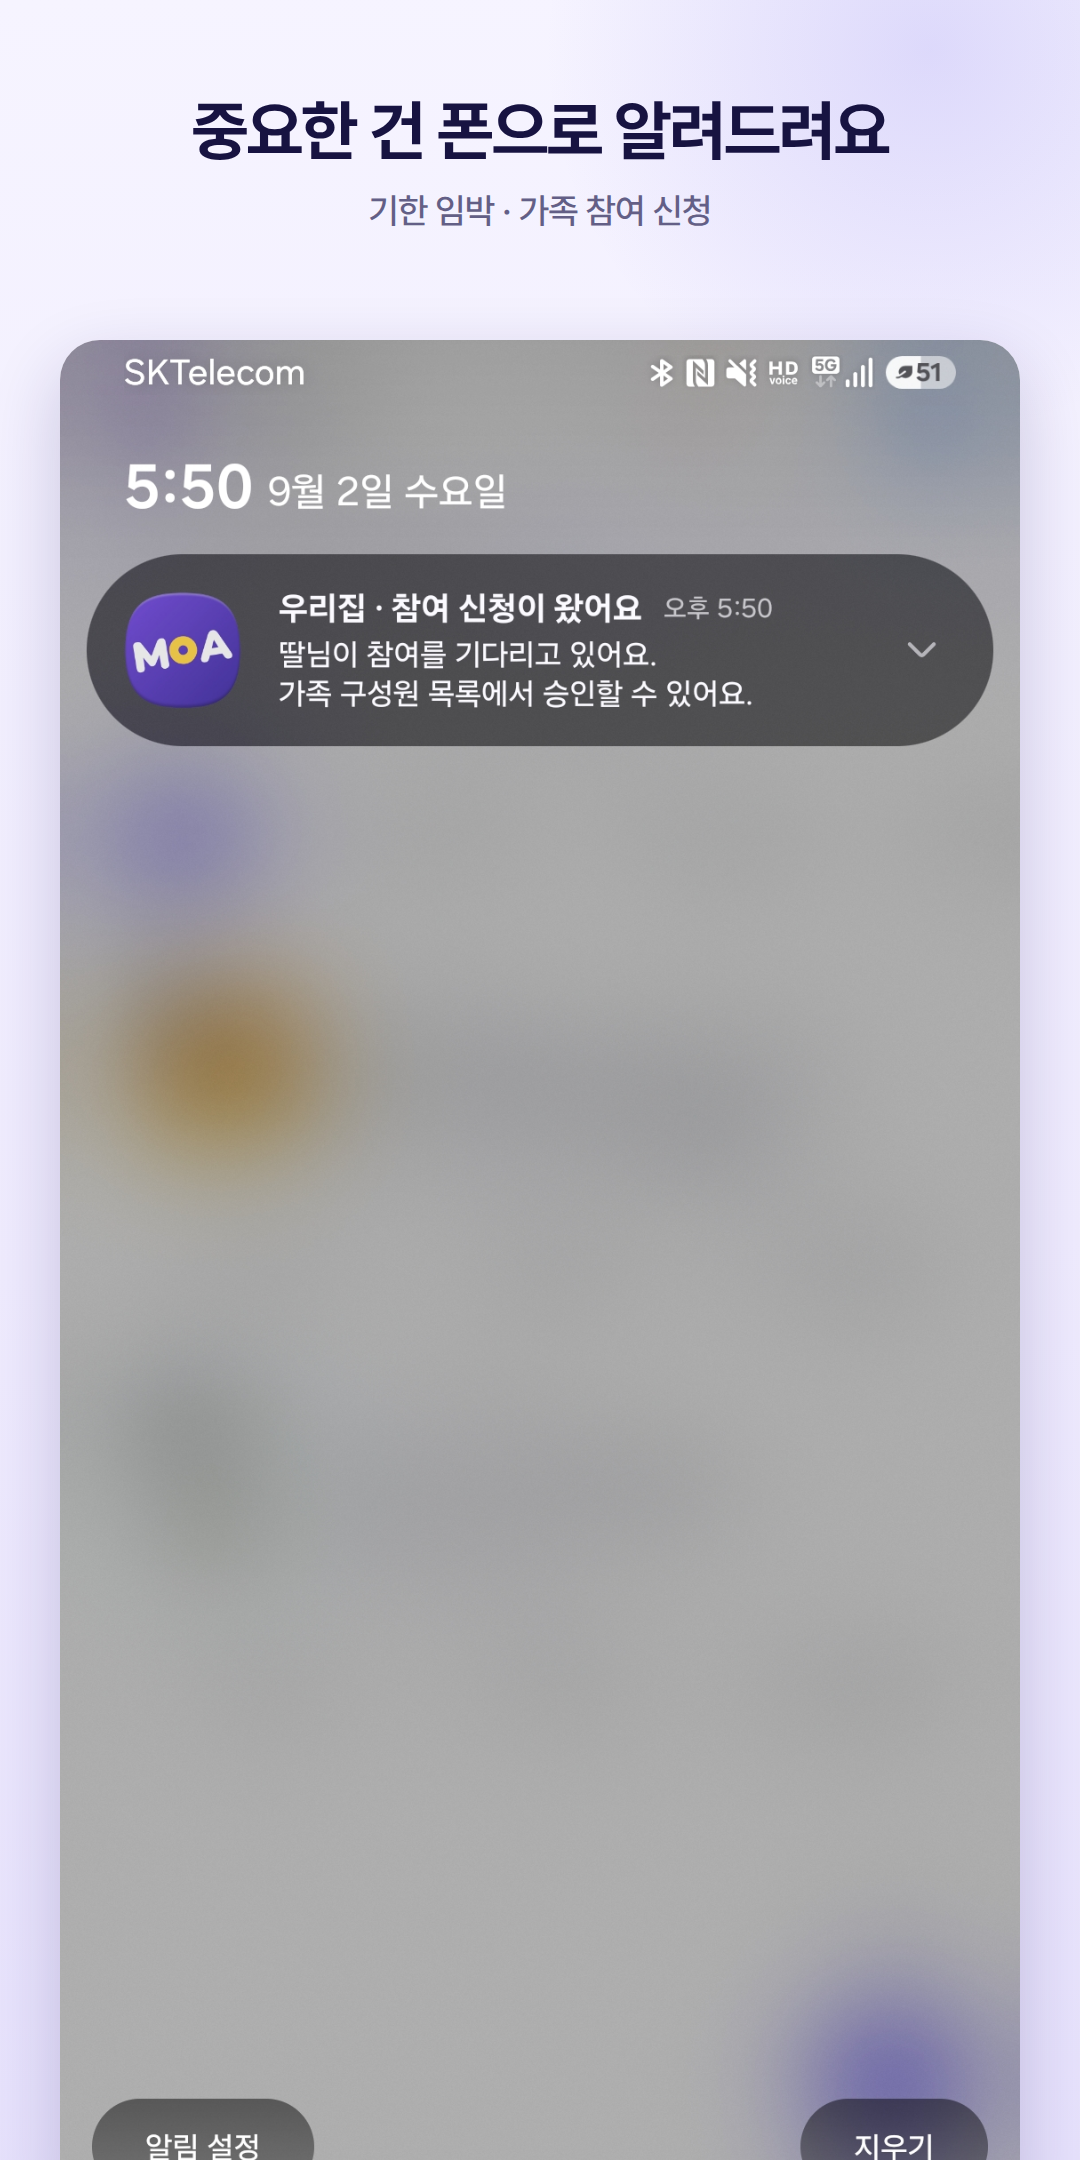
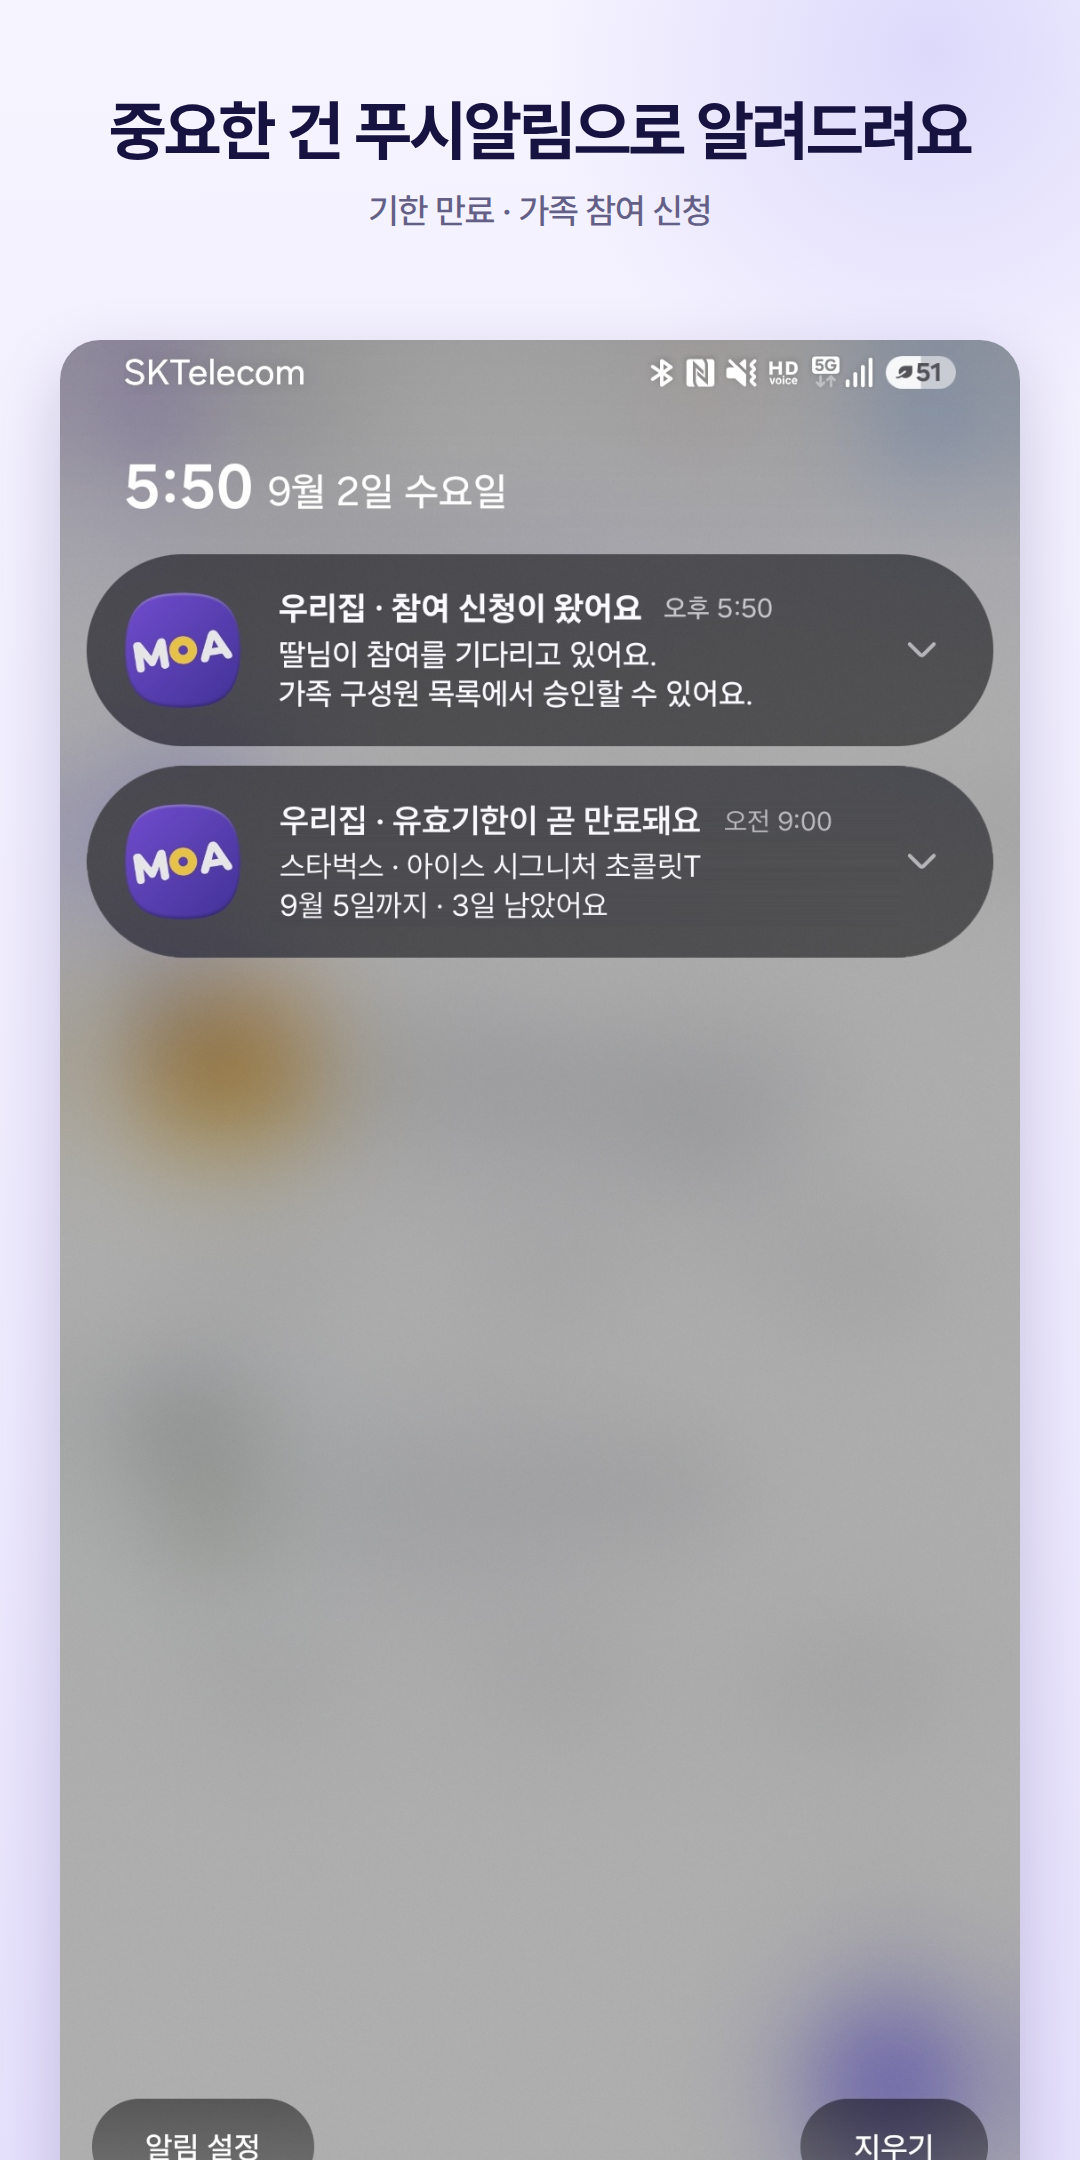
알림 스크린샷에 기한 만료 푸시를 함께 얹는다
앱이 보내는 알림은 둘인데(기한 만료·참여 신청) 잠금화면에 찍힌 것은 하나뿐이었다.
스토어에서 이 앱을 고르는 이유가 기한 알림이라, 그게 안 보이면 이 장이 할 말을
반만 한다.

찍힌 카드를 알약 모양으로 오려 아래에 붙이고 글자만 다시 썼다. 아이콘·화살표·둥근
모서리·반투명 정도가 저절로 맞는다. 반투명이라 글자 자리를 한 색으로 덮으면 그
자리만 도드라져서, 줄마다 좌우 색을 떠서 이어 칠했다.

문구는 send-expiry-notifications가 실제로 보내는 형식 그대로다.

큰 글씨도 '푸시알림'으로 바꿨다. 한 줄에 안 들어가면 접히지 않을 때까지 글자를
줄이도록 해뒀다.

Claude-Session: https://claude.ai/code/session_0162SJJHihdyv8vNrHmvGXqM

Changed region(s): [[0.0611, 0.3412, 0.9167, 0.4653], [0.0917, 0.031, 0.8861, 0.1241]]

diff --git a/docs/store-listing.md b/docs/store-listing.md
@@ -164,7 +164,7 @@ https://ceaser501.github.io/our-home-gift/privacy.html
 | 2 | `assets/marketing/screenshots/02-scan.png` | 사진첩 훑는 중 |
 | 3 | `assets/marketing/screenshots/03-form.png` | 자동으로 채워진 등록 화면 |
 | 4 | `assets/marketing/screenshots/04-barcode.png` | 상세 · 바코드 |
-| 5 | `assets/marketing/screenshots/05-push.png` | 알림 (실제로 온 푸시) |
+| 5 | `assets/marketing/screenshots/05-push.png` | 알림 (푸시 두 종류) |
 | 6 | `assets/marketing/screenshots/06-map.png` | 근처 매장 · 길찾기 |
 | 7 | `assets/marketing/screenshots/07-invite.png` | 가족 초대 |
 | 8 | `assets/marketing/screenshots/08-stats.png` | 사용 내역 |
@@ -185,7 +185,7 @@ https://ceaser501.github.io/our-home-gift/privacy.html
 | 2 | 사진첩 훑는 중 (안드로이드) | 찾는 것부터 앱이 합니다 | 사진첩을 훑어 기프티콘만 골라내요 |
 | 3 | 자동으로 채워진 등록 화면 | 사진만 올리면 끝 | 상품명 · 금액 · 유효기한이 저절로 |
 | 4 | 상세 · 바코드 | 매장에선 대기만 하면 돼요 | 금액권은 쓴 만큼 잔액이 계산돼요 |
-| 5 | 푸시가 뜬 잠금화면 | 중요한 건 폰으로 알려드려요 | 기한 임박 · 가족 참여 신청 |
+| 5 | 푸시가 뜬 잠금화면 | 중요한 건 푸시알림으로 알려드려요 | 기한 만료 · 가족 참여 신청 |
 | 6 | 근처 매장 지도 · 길찾기 | 쓸 수 있는 곳을 지도에서 | 길찾기 · 전화까지 바로 |
 | 7 | 가족 초대 | 가족이 같은 서랍을 봅니다 | 카카오톡 링크 하나로 초대 |
 | 8 | 사용 내역 | 우리 집이 얼마나 아꼈나 | 누가 언제 썼는지 그대로 남아요 |
@@ -197,10 +197,16 @@ https://ceaser501.github.io/our-home-gift/privacy.html
 **2번은 안드로이드에만 있다.** 사진첩을 훑는 기능은 iOS에 없다. App Store는 스크린샷을
 따로 올리므로, 거기서는 2번을 빼고 7장으로 낸다. Play는 8장 그대로.
 
-5번에 찍힌 것은 **참여 신청 알림**이다. 기한 임박 알림은 그 순간을 붙잡아야 찍을 수
-있어서 못 찍었다. 그래서 문구는 둘을 함께 적었다 — 앱이 보내는 알림은 이 둘뿐이고
-(`supabase/functions/send-expiry-notifications`, `notify-join-request`), 그림은 그중
-하나를 보여주는 것이다.
+5번은 **참여 신청 알림만 실물이다.** 기한 만료 알림은 그 순간을 붙잡아야 찍을 수 있어서
+못 찍었고, 찍힌 카드를 알약 모양으로 오려 아래에 붙이고 글자만 다시 썼다. 아이콘·화살표·
+반투명 정도가 저절로 맞아서 손으로 그린 티가 안 난다.
+
+**글자는 지어낸 것이 아니다.** `supabase/functions/send-expiry-notifications/index.ts:153`이
+실제로 보내는 형식 그대로다 — 가족 이름 · 제목, 상호 · 상품명, 기한과 남은 날. 그 문구를
+고치면 이 그림도 같이 고쳐야 한다. 만드는 코드는 대화 밖 임시 폴더에 있으니, 다시 만들
+일이 생기면 찍힌 카드 위치(`CARD`)와 내릴 거리(`DROP`)만 다시 재면 된다.
+
+앱이 보내는 알림은 이 둘뿐이다(`send-expiry-notifications`, `notify-join-request`).
 
 5번의 「알림」은 **푸시**다. 헤더의 종은 가족이 올리거나 쓴 소식과 공지가 쌓이는 자리라
 기한과 관계가 없다(`client/src/components/NotificationBell.jsx:17`).
